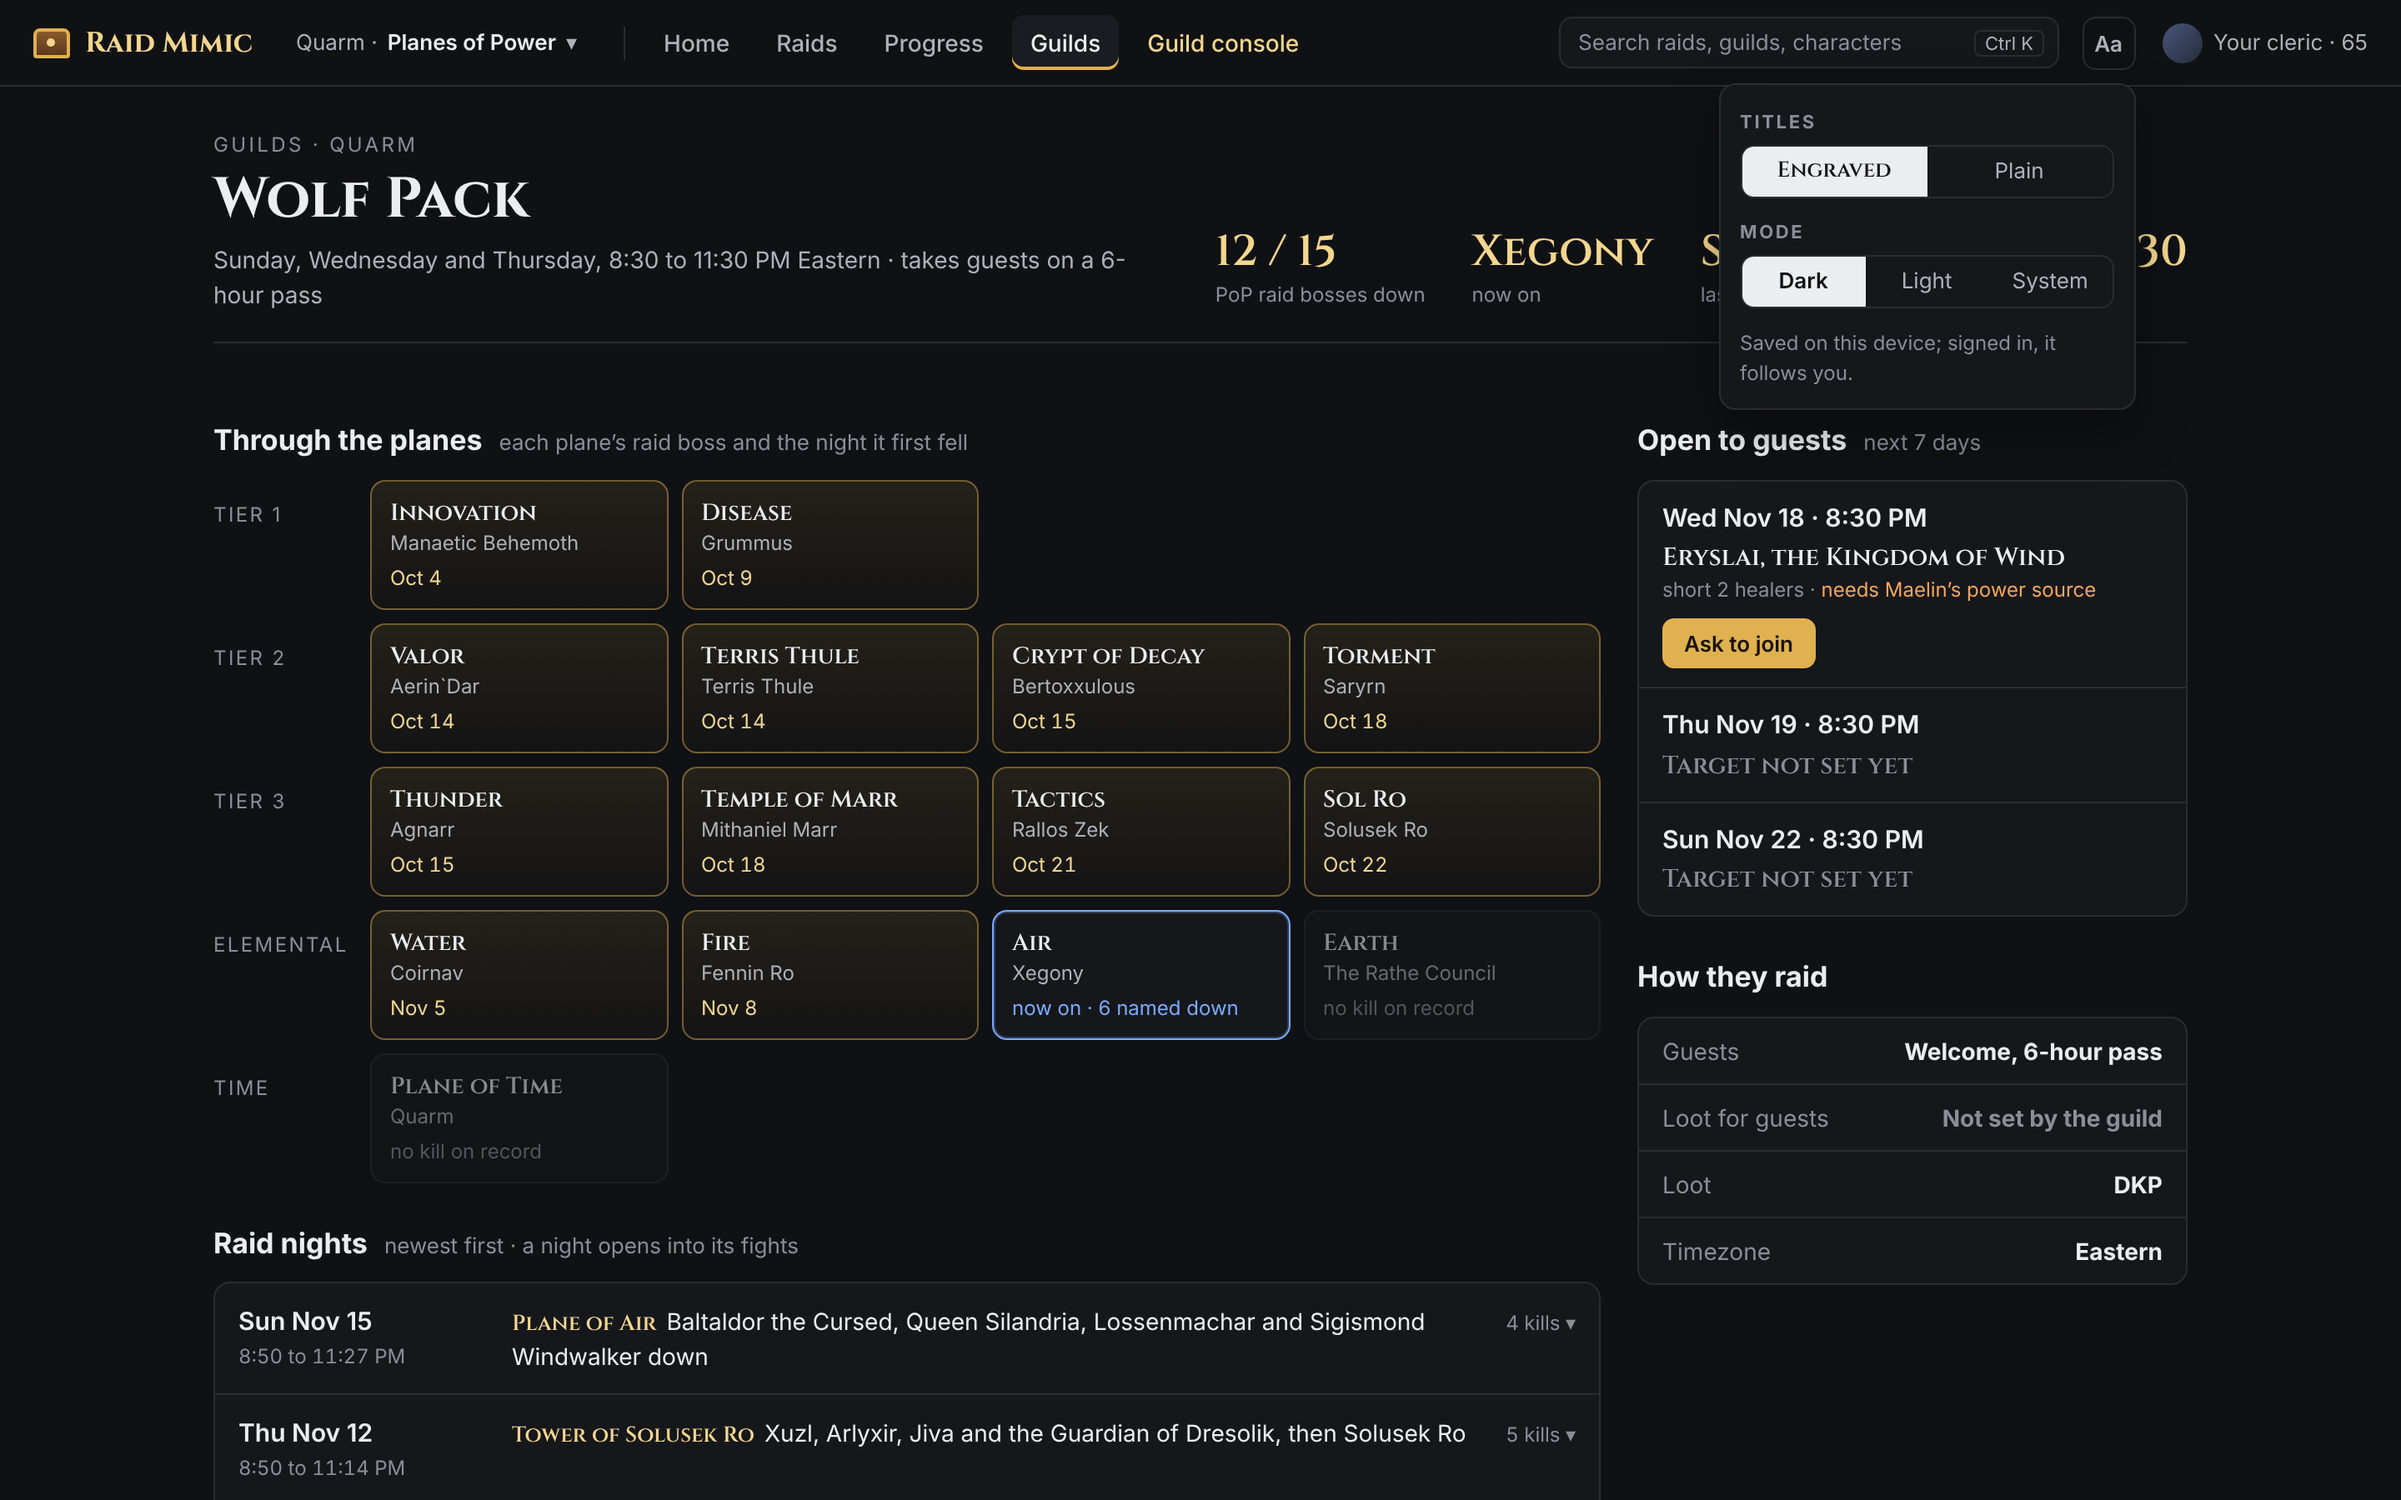
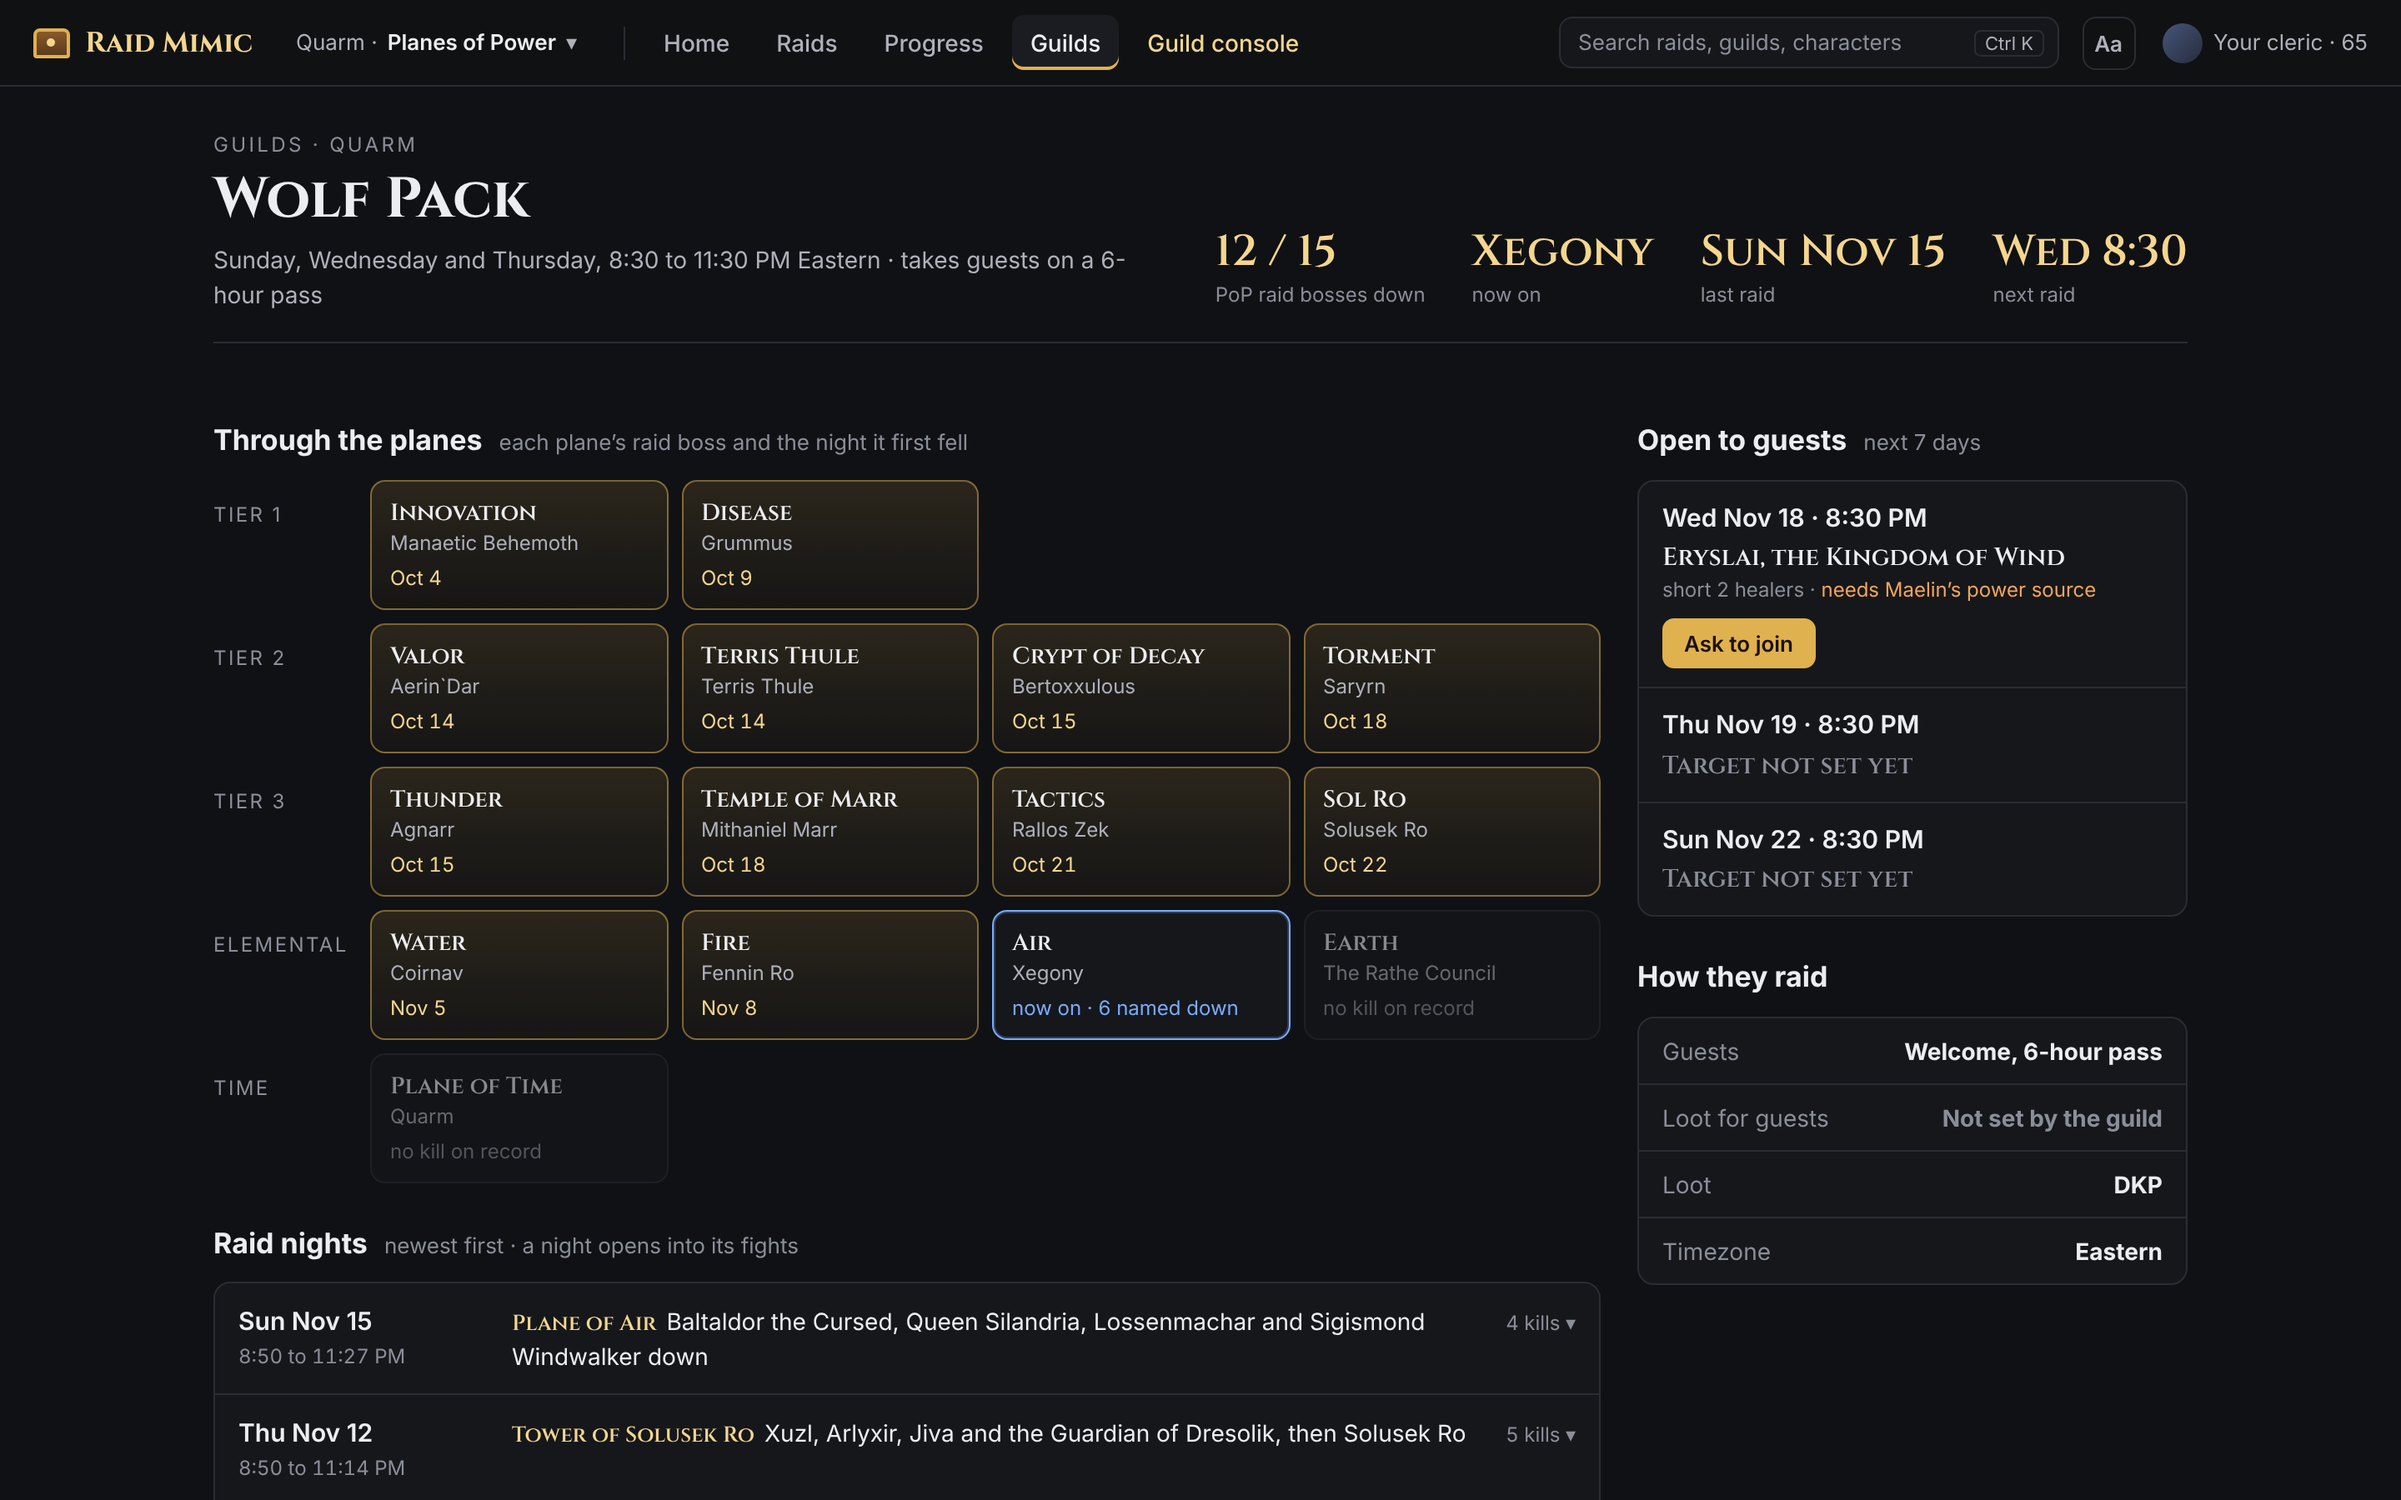
draft - raidmimic.com Aa menu: four looks as tiles, accents per person or guild (no Frost)

Changed region(s): [[0.7188, 0.0933, 0.9062, 0.2489]]

diff --git a/docs/mocks/rm-redesign-2026-11-16/guild2.html b/docs/mocks/rm-redesign-2026-11-16/guild2.html
@@ -29,17 +29,36 @@
 <span class="era">Quarm · <b>Planes of Power</b> ▾</span><span class="sep"></span>
 <a class="tab">Home</a><a class="tab">Raids</a><a class="tab">Progress</a><a class="tab on">Guilds</a><a class="tab off">Guild console</a>
 <span class="grow"></span><span class="k">Search raids, guilds, characters <kbd>Ctrl K</kbd></span>
-<span class="look"><a class="aa" title="Look">Aa</a><div class="menu">
- <h4>Titles</h4><span class="seg"><a class="t-eng" id="t-eng">Engraved</a><a id="t-plain">Plain</a></span>
- <h4>Mode</h4><span class="seg"><a id="m-dark">Dark</a><a id="m-light">Light</a><a id="m-sys">System</a></span>
- <p>Saved on this device; signed in, it follows you.</p></div></span>
+<span class="look"><a class="aa" title="Look" id="aa">Aa</a><div class="menu">
+ <h4>Look</h4>
+ <div class="tiles">
+  <a data-l="engraved:dark" class="tile" style="--tb:#101114;--tf:#ecedf0;font-family:Cinzel,serif">Aa<small>Engraved · Dark</small></a>
+  <a data-l="plain:dark" class="tile" style="--tb:#101114;--tf:#ecedf0">Aa<small>Plain · Dark</small></a>
+  <a data-l="engraved:light" class="tile" style="--tb:#d6c7a6;--tf:#2b2116;font-family:Cinzel,serif">Aa<small>Engraved · Parchment</small></a>
+  <a data-l="plain:light" class="tile" style="--tb:#d6c7a6;--tf:#2b2116">Aa<small>Plain · Parchment</small></a>
+ </div>
+ <h4>Accent</h4>
+ <div class="sw"><a class="guild" data-a="guild" title="The guild's colour on its own pages">G</a><a data-a="gold" style="--c:#e0b14f" title="Gold"></a><a data-a="silver" style="--c:#c3c8d2" title="Silver"></a><a data-a="violet" style="--c:#a98cf5" title="Violet"></a><a data-a="teal" style="--c:#4ccbbd" title="Teal"></a><a data-a="rose" style="--c:#e889b0" title="Rose"></a></div>
+ <p>G uses each guild’s own colour on its pages. Saved on this device; signed in, it follows you.</p></div></span>
 <span class="me"><span class="av"></span>Your cleric · 65</span></header>
 <script>
+ // Dark by default (the guild lead, 2026-11-17). A ?look=&accent= in the address overrides, for the pictures.
  const q = new URLSearchParams(location.search), h = document.documentElement;
- const t = q.get('titles') || 'engraved', m = q.get('mode') || 'dark';
- h.dataset.titles = t; h.dataset.mode = m; if (q.get('menu')) h.dataset.menu = 'open';
- document.getElementById(t === 'plain' ? 't-plain' : 't-eng').className += ' on';
- document.getElementById(m === 'light' ? 'm-light' : 'm-dark').className += ' on';
+ const get = (k, d) => q.get(k) || (() => { try { return localStorage.getItem('rm-' + k); } catch { return null; } })() || d;
+ const GUILD_ACCENT = 'silver'; // this page's guild colour, as the guild set it (sample)
+ function apply(look, accent) {
+   const [t, m] = look.split(':'); h.dataset.titles = t; h.dataset.mode = m;
+   h.dataset.accent = accent === 'guild' ? GUILD_ACCENT : accent;
+   document.querySelectorAll('.tile').forEach(e => e.classList.toggle('on', e.dataset.l === look));
+   document.querySelectorAll('.sw a').forEach(e => e.classList.toggle('on', e.dataset.a === accent));
+ }
+ let look = get('look', 'engraved:dark'), accent = get('accent', 'guild');
+ apply(look, accent);
+ if (q.get('menu')) h.dataset.menu = 'open';
+ document.getElementById('aa').onclick = () => { h.dataset.menu = h.dataset.menu === 'open' ? '' : 'open'; };
+ const save = (k, v) => { try { localStorage.setItem('rm-' + k, v); } catch {} };
+ document.querySelectorAll('.tile').forEach(e => e.onclick = () => { look = e.dataset.l; save('look', look); apply(look, accent); });
+ document.querySelectorAll('.sw a').forEach(e => e.onclick = () => { accent = e.dataset.a; save('accent', accent); apply(look, accent); });
 </script>
 <main class="page">
  <div class="crumb">Guilds · Quarm</div>

diff --git a/docs/mocks/rm-redesign-2026-11-16/v2.css b/docs/mocks/rm-redesign-2026-11-16/v2.css
@@ -23,8 +23,35 @@ html[data-mode="light"] body{background:
   radial-gradient(1200px 700px at 30% -10%,rgba(255,240,205,.35),transparent 70%),
   radial-gradient(900px 600px at 110% 110%,rgba(120,85,40,.18),transparent 70%),var(--bg)}
 html[data-mode="light"] .bar{background:rgba(214,199,166,.94)}
-html[data-mode="light"] .cell.done{background:linear-gradient(180deg,rgba(150,105,30,.16),rgba(150,105,30,.05))}
 html[data-mode="light"] .seg a.on{background:var(--text);color:var(--bg)}
+/* Accents (the guild lead, 2026-11-17: "accents can be per person or per guild"). A short list, each checked in both
+   modes: --gold is the fill (buttons, bars, the current tab), --gold2 the accent text. Red, green and orange are not
+   accents: they mean bad, good and warning; blue is not one either, it marks "now on" and links (a Frost accent was
+   tried and the current plane stopped standing out). On parchment a light fill barely separates from the page (1.5-1.7:1), so
+   bars and the tab line use the dark accent there and filled buttons carry an ink outline. */
+html[data-accent="silver"]{--gold:#c3c8d2;--gold2:#dfe3ea}
+html[data-accent="violet"]{--gold:#a98cf5;--gold2:#cdbdff}
+html[data-accent="teal"]{--gold:#4ccbbd;--gold2:#9ce8de}
+html[data-accent="rose"]{--gold:#e889b0;--gold2:#f5bfd5}
+html[data-mode="light"][data-accent="gold"]{--gold:#c4913a;--gold2:#5e3e06}
+html[data-mode="light"][data-accent="silver"]{--gold:#a59c88;--gold2:#3d382f}
+html[data-mode="light"][data-accent="violet"]{--gold:#a48bd8;--gold2:#4b2e8f}
+html[data-mode="light"][data-accent="teal"]{--gold:#5aa89f;--gold2:#0f4f49}
+html[data-mode="light"][data-accent="rose"]{--gold:#c98aa4;--gold2:#6e1f43}
+html[data-mode="light"] .btn.p{box-shadow:inset 0 0 0 1px var(--text)}
+html[data-mode="light"] .bars i.f{background:var(--gold2)}
+html[data-mode="light"] .tab.on{box-shadow:inset 0 -2px 0 var(--gold2)}
+.cell.done{border-color:color-mix(in srgb,var(--gold) 50%,transparent)!important;background:linear-gradient(180deg,color-mix(in srgb,var(--gold) 13%,transparent),color-mix(in srgb,var(--gold) 3%,transparent))!important}
+html[data-mode="light"] .cell.done{border-color:color-mix(in srgb,var(--gold2) 45%,transparent)!important}
+.menu{width:300px}
+.tiles{display:grid;grid-template-columns:1fr 1fr;gap:6px;margin-bottom:12px}
+.tile{background:var(--tb);color:var(--tf);border:1px solid var(--line);border-radius:8px;padding:8px 10px;font-size:20px;line-height:1.1}
+.tile small{display:block;font:500 11px Inter,sans-serif;opacity:.8;margin-top:3px}
+.tile.on{outline:2px solid var(--gold);outline-offset:1px}
+.sw{display:flex;gap:7px;margin-bottom:12px}
+.sw a{width:24px;height:24px;border-radius:50%;background:var(--c);box-shadow:inset 0 0 0 1px rgba(0,0,0,.25)}
+.sw a.on{outline:2px solid var(--text);outline-offset:2px}
+.sw a.guild{background:conic-gradient(from 90deg,#e0b14f,#7fb2ff,#a98cf5,#4ccbbd,#e0b14f);display:grid;place-items:center;font:700 10px Inter;color:#111}
 .look{position:relative;margin-left:8px}
 .look .aa{display:grid;place-items:center;width:32px;height:32px;border:1px solid var(--line);border-radius:8px;font:600 13px Inter;color:var(--t2)}
 .menu{display:none;position:absolute;right:0;top:40px;width:250px;background:var(--sec);border:1px solid var(--line);border-radius:10px;padding:12px;box-shadow:0 12px 30px rgba(0,0,0,.35);z-index:9}
